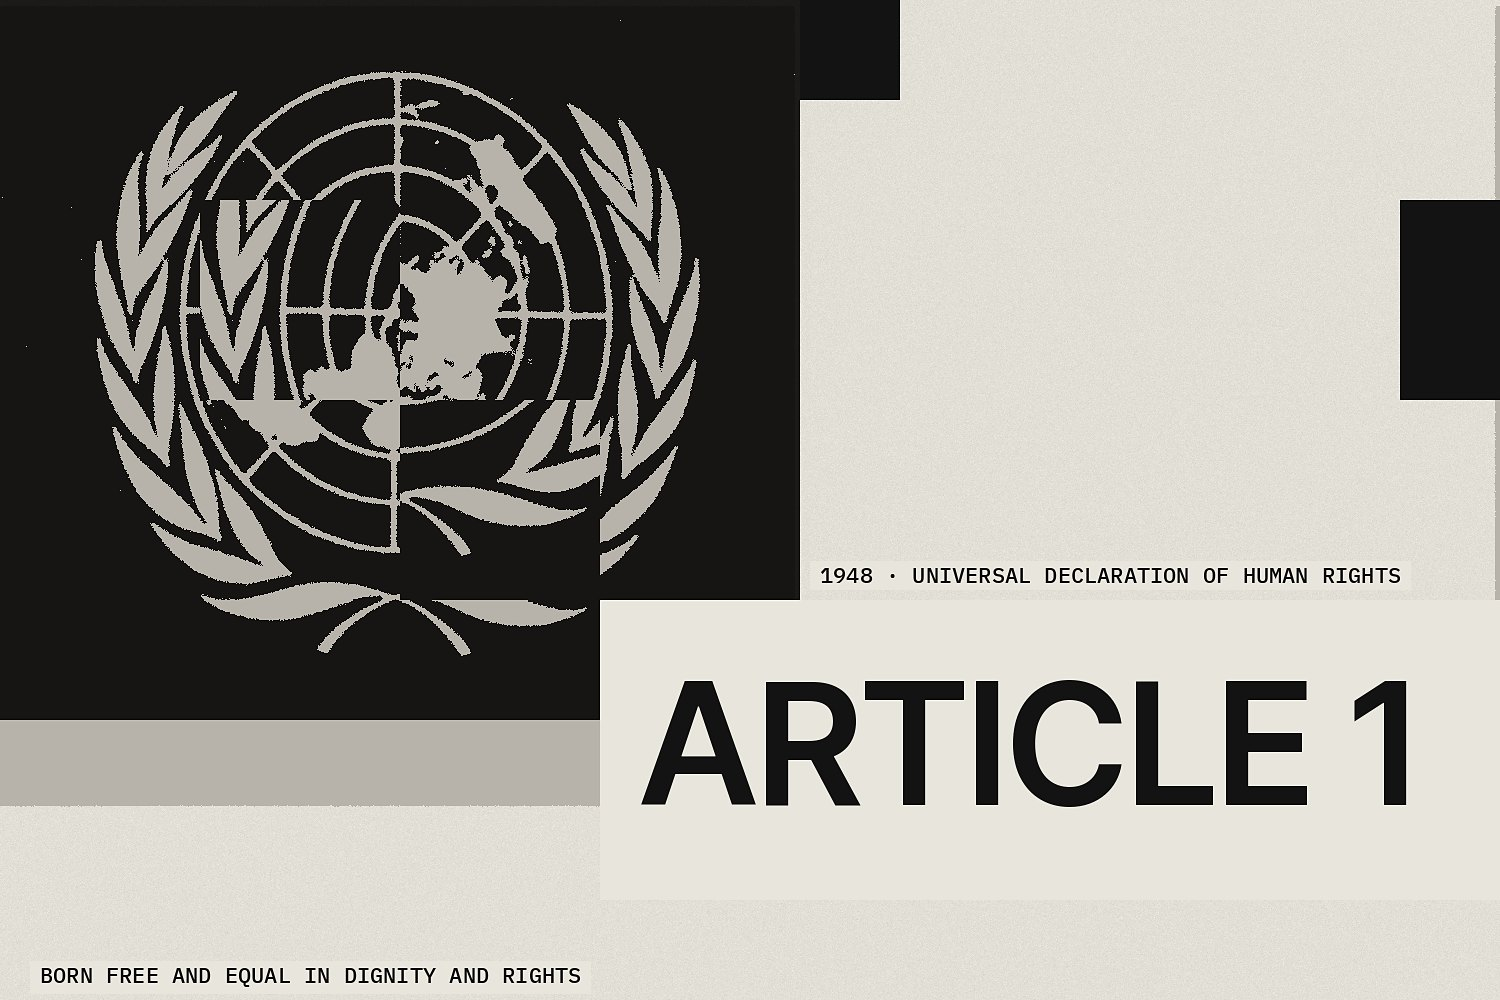
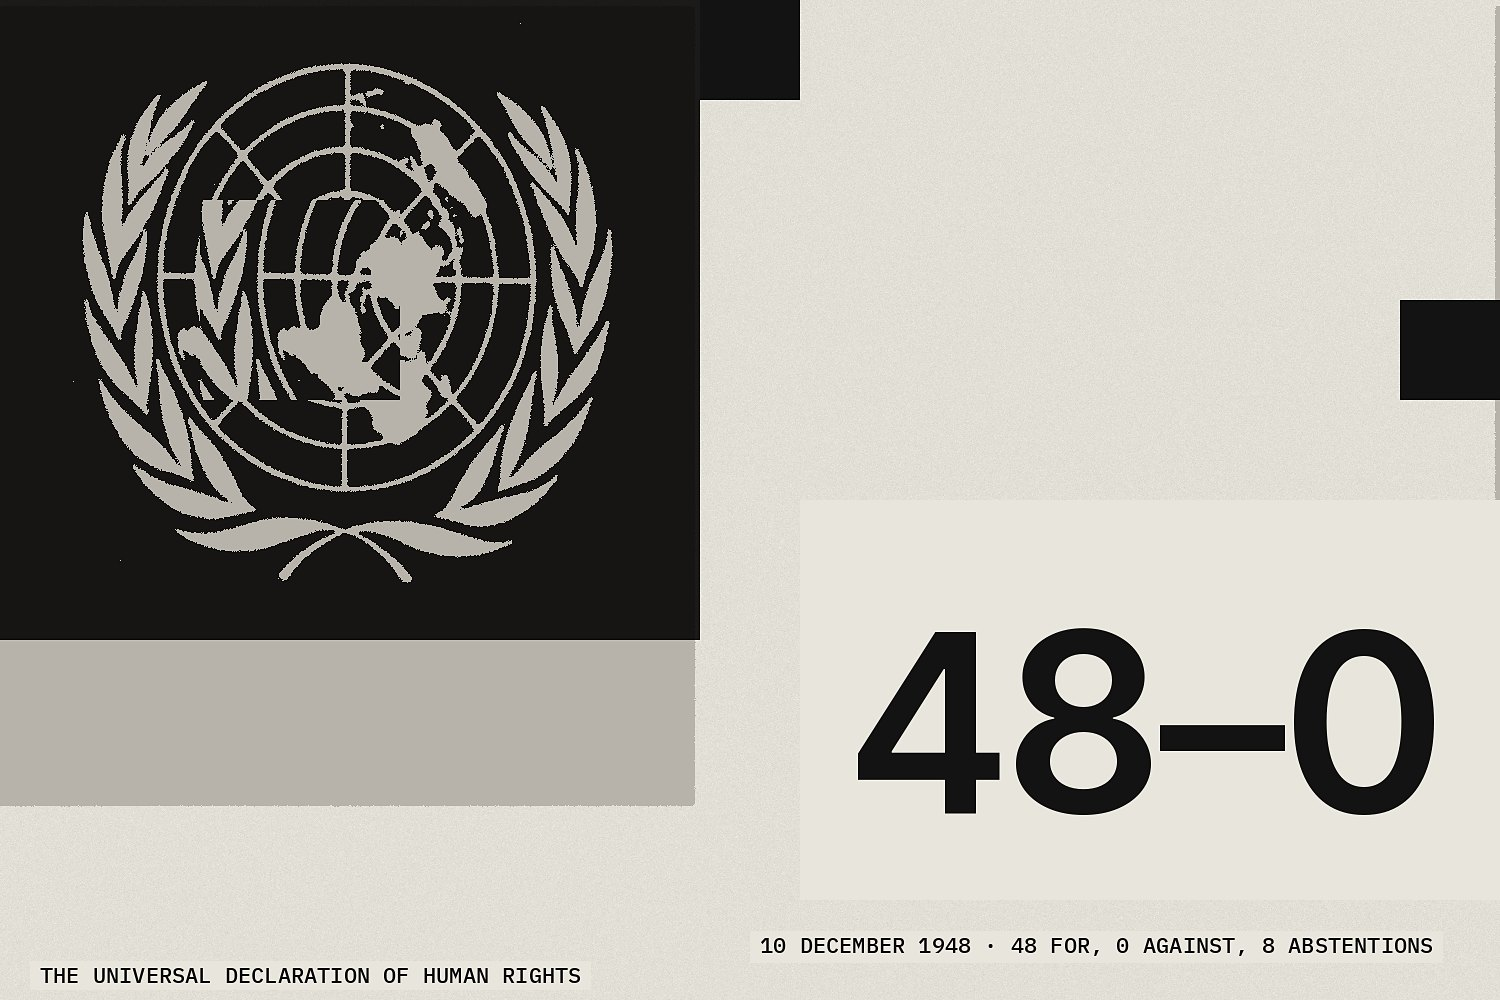
Power and Rights and dignity collages rebuilt: one object, one exact fact
Claude-Session: https://claude.ai/code/session_01Sc1pzyhKsrC3mM6v1oVhk6

diff --git a/scripts/collages.py b/scripts/collages.py
@@ -159,10 +159,10 @@ SPECS = [
          type=[dict(slab=(8, 5, 7, 4), parts=[('0', 330, 860, 520), ('kWh', 150, 1080, 690)])],
          labels=[('1954 · "TOO CHEAP TO METER" · LEWIS STRAUSS', 820, 930), ('AN ELECTRICITY METER', 40, 960)]),
     dict(id='collage-power', size=THEME, colour=GREY, seed=89,
-         fields=[(0, 0, 4, 10), (11, 5, 4, 5)], black=[(4, 8, 2, 2), (14, 0, 1, 2)],
-         fragments=[dict(img='leviathan-frontispiece.jpg', box=(1000, 1100), crop=(0.0, 0.0, 1.0, 0.58), how='screen', level=0.55, at=(250, -60))],
-         shift=[(6, 2, 2, 2, 0, 1), (9, 4, 2, 2, 1, 0), (5, 6, 1, 2, -1, 0)], invert=[(7, 6, 2, 2)],
-         labels=[('1651 · LEVIATHAN', 40, 960)]),
+         fields=[(0, 1, 9, 9)], black=[(9, 0, 1, 1), (14, 8, 1, 2)],
+         fragments=[dict(img='leviathan-frontispiece.jpg', box=(1240, 700), crop=(0.1, 0.0, 0.9, 0.27), how='screen', level=0.52, at=(60, 140))],
+         shift=[(8, 4, 2, 2, 1, 0)], invert=[(4, 7, 1, 1)],
+         labels=[('1651 · LEVIATHAN · A BODY MADE OF ITS SUBJECTS', 40, 960)]),
     dict(id='collage-the-tool', size=THEME, colour=GREY, seed=144,
          fields=[(0, 0, 6, 6), (10, 6, 5, 4)], black=[(6, 0, 1, 1), (14, 9, 1, 1)],
          fragments=[dict(img='engelbart-1968.jpg', box=(1240, 820), crop=(0.12, 0.34, 0.88, 0.92), how='screen', level=0.42, at=(130, 120))],
@@ -175,11 +175,11 @@ SPECS = [
          type=[dict(slab=(8, 5, 7, 4), parts=[('10', 300, 850, 560), ('25', 140, 1210, 540)])],
          labels=[('1960 · MARK I PERCEPTRON', 40, 960), ('FLOP · THE EU AI ACT THRESHOLD', 850, 900)]),
     dict(id='collage-rights-and-dignity', size=THEME, colour=GREY, seed=377,
-         fields=[(0, 0, 8, 8)], black=[(8, 0, 1, 1), (14, 2, 1, 2)],
-         fragments=[dict(img='udhr-1948.jpg', box=(800, 720), crop=(0.09, 0.012, 0.285, 0.13), how='screen', level=0.5, at=(0, 0))],
-         shift=[(2, 2, 2, 2, 1, 0), (4, 4, 2, 2, 0, -1)],
-         type=[dict(slab=(6, 6, 9, 3), parts=[('ARTICLE 1', 170, 640, 640)])],
-         labels=[('1948 · UNIVERSAL DECLARATION OF HUMAN RIGHTS', 820, 560), ('BORN FREE AND EQUAL IN DIGNITY AND RIGHTS', 40, 960)]),
+         fields=[(0, 0, 7, 8)], black=[(7, 0, 1, 1), (14, 3, 1, 1)],
+         fragments=[dict(img='udhr-1948.jpg', box=(700, 640), crop=(0.09, 0.012, 0.285, 0.13), how='screen', level=0.5, at=(0, 0))],
+         shift=[(2, 2, 2, 2, 1, 0)],
+         type=[dict(slab=(8, 5, 7, 4), parts=[('48–0', 250, 850, 570)])],
+         labels=[('10 DECEMBER 1948 · 48 FOR, 0 AGAINST, 8 ABSTENTIONS', 760, 930), ('THE UNIVERSAL DECLARATION OF HUMAN RIGHTS', 40, 960)]),
     dict(id='collage-self-determination', size=THEME, colour=GREY, seed=610,
          fields=[(0, 3, 6, 7), (11, 0, 4, 4)], black=[(6, 8, 1, 2), (14, 6, 1, 1)],
          fragments=[dict(img='kleroterion.jpg', box=(1200, 790), how='screen', level=0.47, at=(150, 100))],
